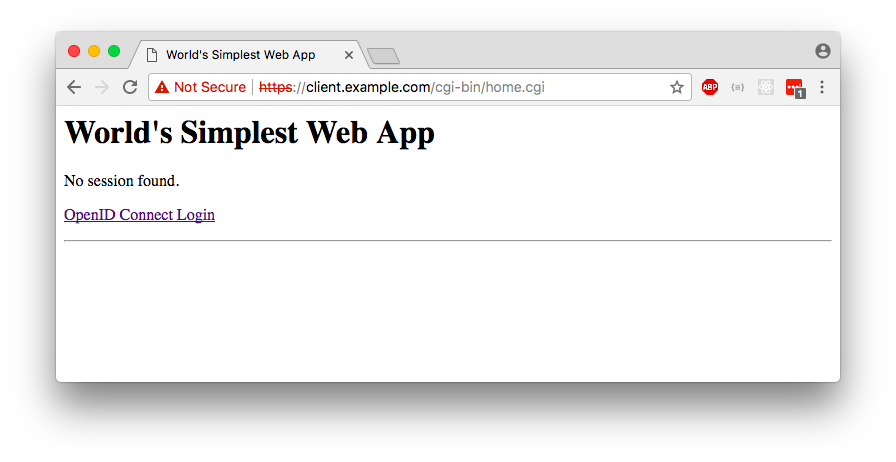
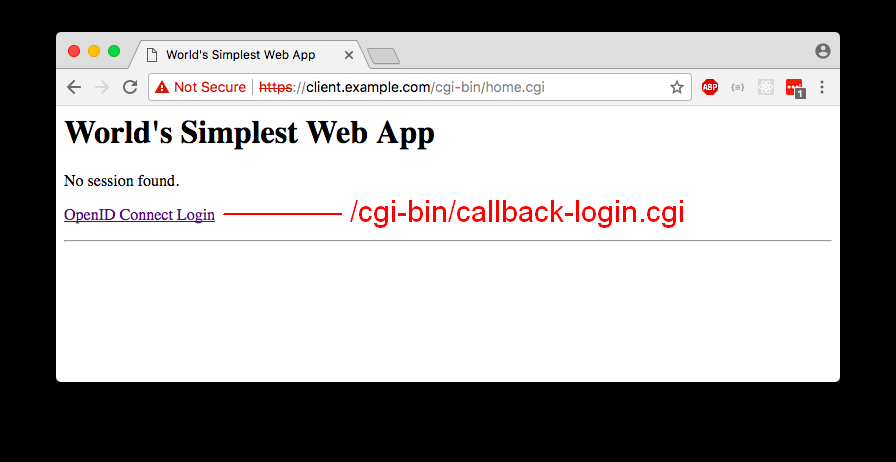
Updated screenshot to show link destination

diff --git a/README.md b/README.md
@@ -58,7 +58,7 @@ Server if claims gathering was necessary.
 * **appLog.py** Module to centralize logging code
 * **common.py** Place to put some shared methods
 
-## Deployment Instructions (Ubuntu 14/16)
+## Deployment Instructions
 
 ###  Install oxd
 
@@ -78,7 +78,9 @@ specify the Gluu Server hostname.
 
 ### Install and configure Apache 2
 
-As root, install the following commands to enable ssl and cgi.
+Following are instructions for Debian/Ubuntu. For Redhat/Centos,
+configure ssl and check the `cgi-bin` location, which you may
+have to update in `constants.py`.
 
 ```
 # apt install apache2
@@ -97,22 +99,22 @@ As root, install the following commands to enable ssl and cgi.
 properties to suit your preference.
 1. `$ sudo python setupDemo.py`
 
-### Setup demo UMA Resource Server
+### Start the UMA Resource Server
+
+This server will be accessible only via localhost and will be used by the CGI
+app to demonstrate UMA. Run `curl -k https://localhost:8085/api/` to
+test the application, which should return a list of what api's are available.
 
 ```
 $ cd ../uma_rs
 $ nohup python app.py > uma_rs.log 2>&1 &
 ```
-**Note:**
-1. This server will be accessible only via localhost and will be used by the CGI app to demonstrate UMA.
-You can run `curl -k https://localhost:8085/api/` to know the API details provided by the RS app.
-2. To stop the server, note down the PID returned by the *nohup* command and run `sudo kill <pid>`
 
 ## Demo
 
 ### OpenID Connect
 
-The url for your application will be `https://your-hostname/cgi-bin/home.cgi`
+Start the demo by navigating to `https://(your-hostname)/cgi-bin/home.cgi`
 
 ![home](images/home.png)
 
